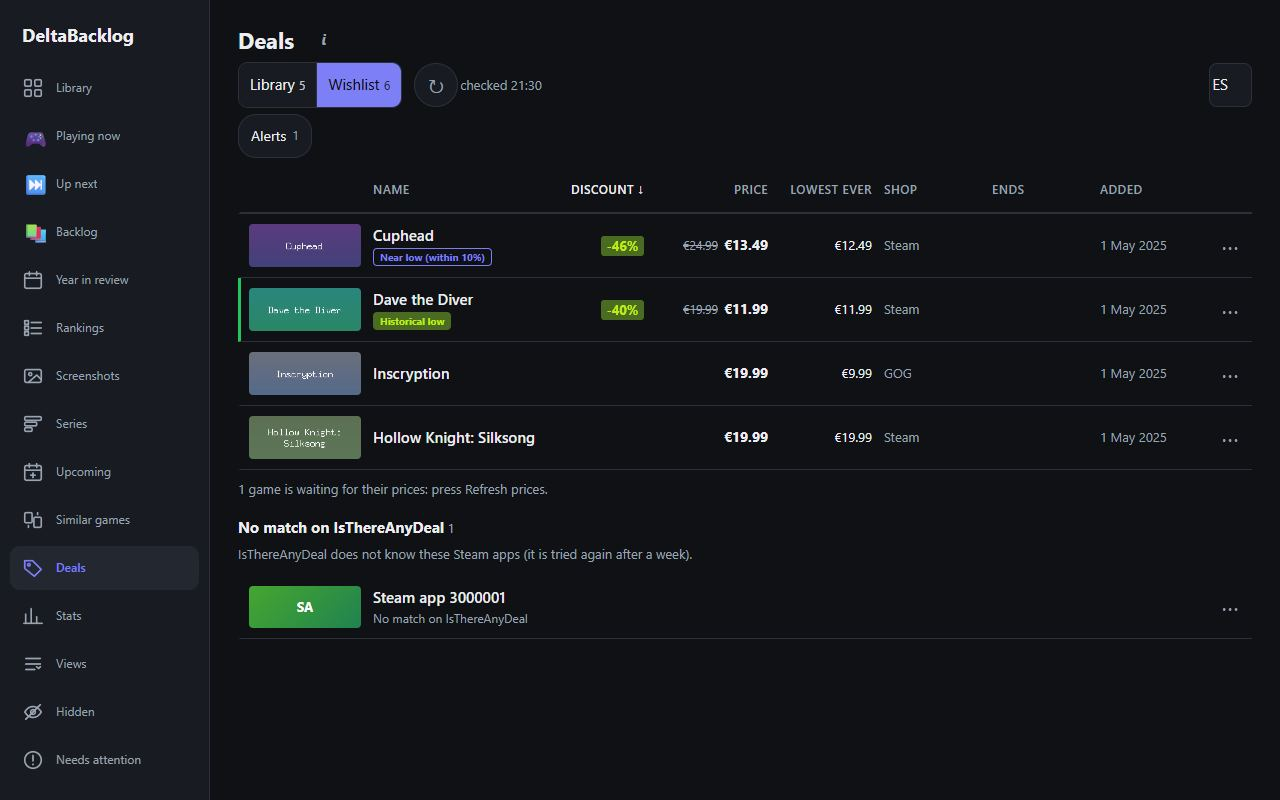
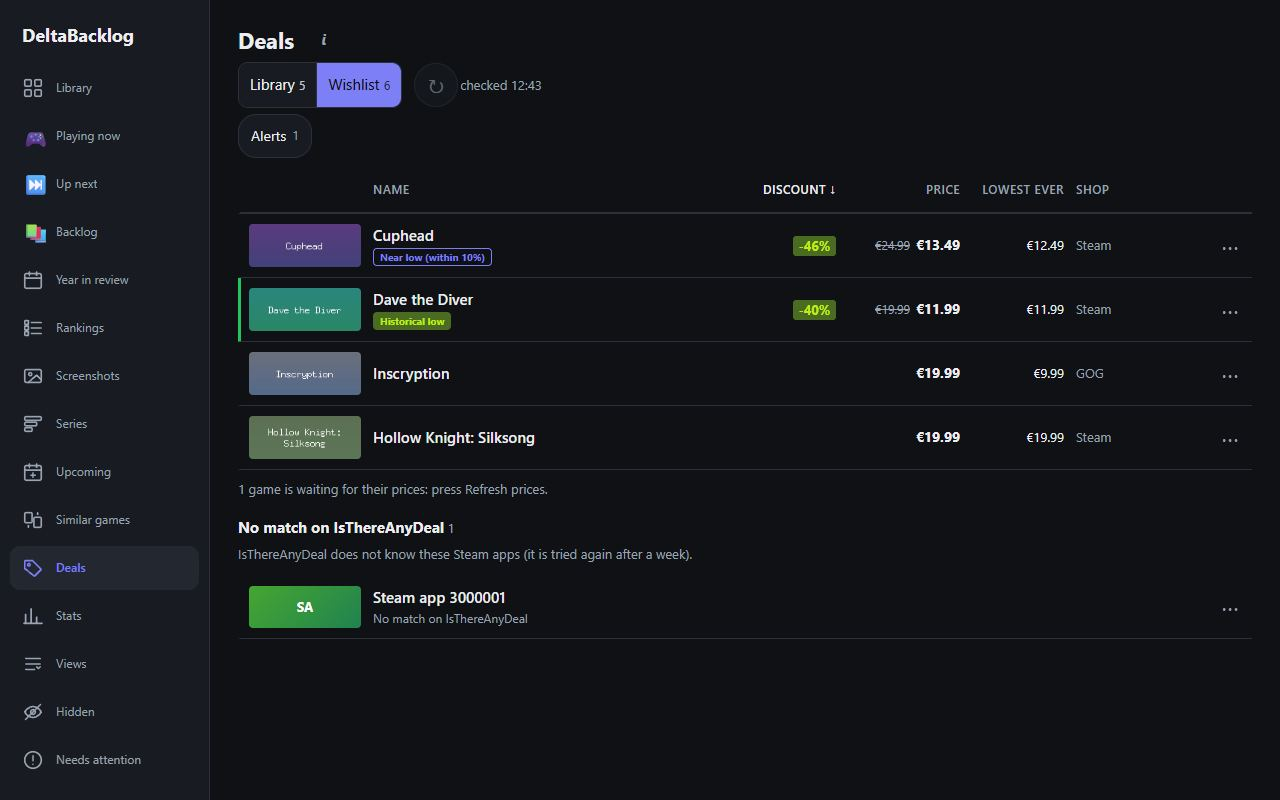
Deals: hint wraps on its own line; regenerate Deals screenshots (dark, demo data)

diff --git a/web/static/styles.css b/web/static/styles.css
@@ -1131,7 +1131,7 @@ button.up-open { cursor: pointer; border-radius: 8px; }
 .dl-act { min-height: 44px; display: flex; align-items: center; justify-content: center; border: 1px solid var(--border); border-radius: 10px; background: var(--surface-2); color: var(--text); text-decoration: none; font-weight: 600; padding: 0 14px; }
 .dl-act.dl-close { margin-top: 6px; width: 100%; background: none; color: var(--muted); }
 .dl-panel-btns { display: flex; flex-wrap: wrap; gap: 8px; }
-.dl-altline { display: block; font-size: 12px; color: var(--muted); overflow: hidden; text-overflow: ellipsis; white-space: nowrap; }
+.dl-altline { display: block; font-size: 12px; color: var(--muted); overflow-wrap: anywhere; }
 .dl-stores { max-width: 460px; }
 .dl-stores-body { display: flex; flex-direction: column; gap: 10px; min-width: 0; }
 .dl-stores-body .hint { margin: 0; }
